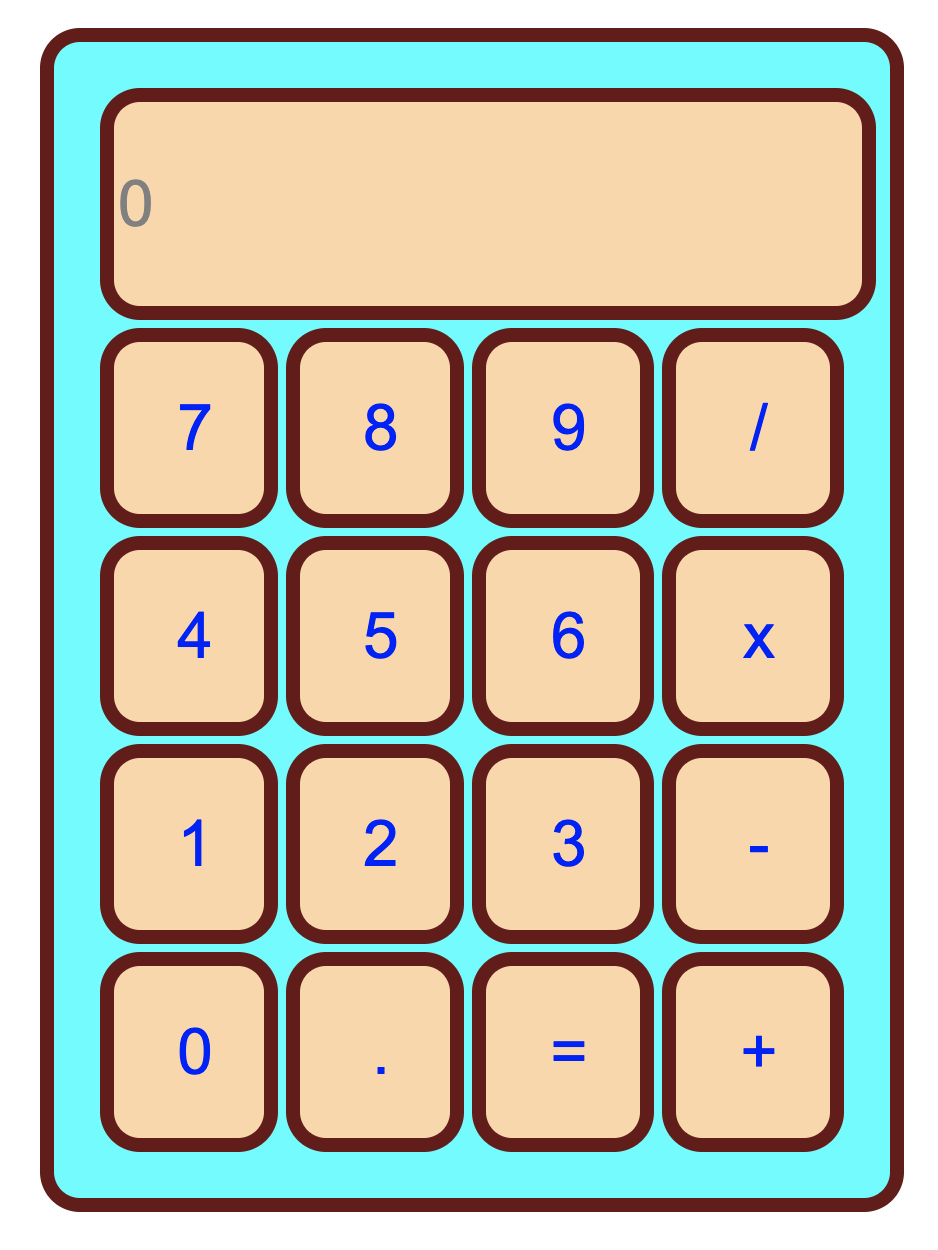
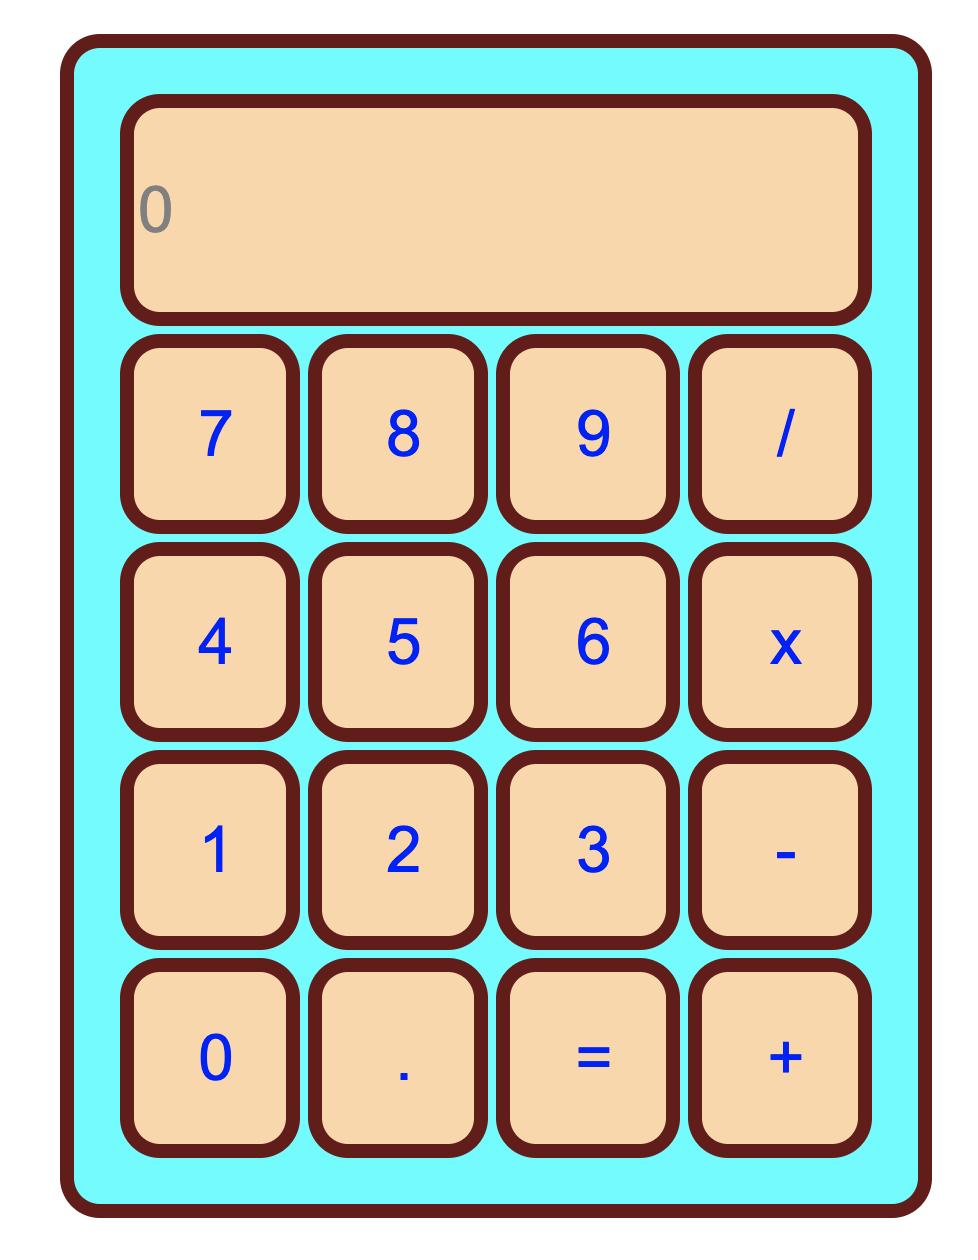
Format img

diff --git a/Excercises/excercises.md b/Excercises/excercises.md
@@ -9,7 +9,7 @@
 **Calculator**:
 
 <picture>
-  <img src="./calculator.png">
+  <img src="./calculator.png" width="200" height="250">
 </picture>
 
 
